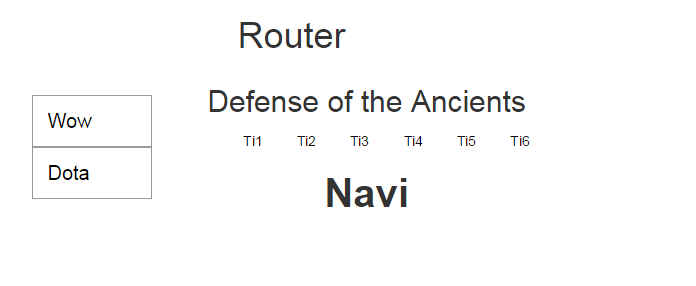
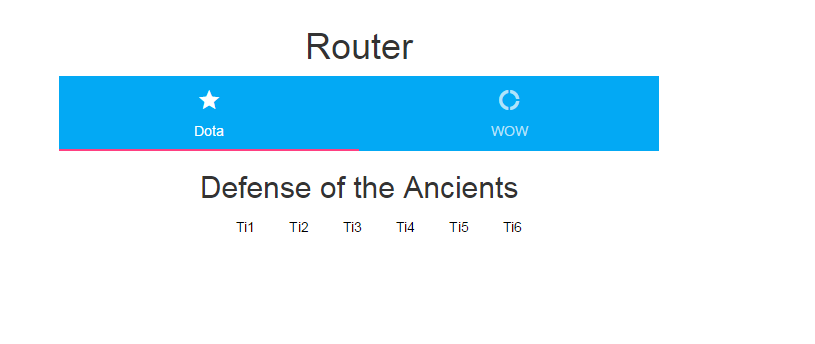
muse-ui-2

diff --git a/src/module/shopping/components/shoppingCar.vue b/src/module/shopping/components/shoppingCar.vue
@@ -4,7 +4,9 @@
 		<table class="table table-striped">
 		  <thead>
 		    <tr>
-		      <th><input type="checkbox" v-model="allChecked">全选({{checkedCount}})</th>
+		      <th>
+				  <mu-checkbox v-model="allChecked" label="全选" class="demo-checkbox"/>
+		      </th>
 		      <th>商品图片</th>
 		      <th>商品信息</th>
 		      <th>商品总价</th>
@@ -12,7 +14,9 @@
 		  </thead>
 		  <tbody>
 		    <tr v-for="(x,index) in list">
-		      <td><input class="test"  type='checkbox' :value="x.totle" v-model="checked"></td>
+		      <td><input class="test"  type='checkbox' :value="x.totle" v-model="checked">
+				<!-- <mu-checkbox :value="x.totle" v-model="checked" class="demo-checkbox"/> -->
+		      </td>
 		      <td><img style="width:80px;height:80px" v-bind:src='x.goodsImg'></td>
 		      <td>
 		      	<p>商品名称：{{x.goodsName}}</p>
@@ -22,14 +26,34 @@
 		      </td>
 		      <td>{{x.totle}}元</td>
 		    </tr>
-		    
 		  </tbody>
 		</table>
+		<mu-table  :fixedHeader="fixedHeader" :allRowsSelected="enableSelectAll" :multiSelectable="multiSelectable" :selectable="selectable" :showCheckbox="showCheckbox" @rowSelection="handleClick">
+		    <mu-thead slot="header">
+		      <mu-tr>
+		        <mu-th tooltip="图片">商品图片</mu-th>
+		        <mu-th tooltip="信息">商品信息</mu-th>
+		        <mu-th tooltip="价格">商品价格</mu-th>
+		      </mu-tr>
+		    </mu-thead>
+		    <mu-tbody >
+		      <mu-tr v-for="(item, index) in list">
+		        <mu-td><img style="width:80px;height:80px" v-bind:src='item.goodsImg'></mu-td>
+		        <mu-td>
+		        	<p>商品名称：{{item.goodsName}}</p>
+			      	<p>商品数量：{{item.count}}</p>
+			      	<p>商品价格：{{item.price}}元</p>
+			      	<p>商品颜色：{{item.color}}</p>
+		        </mu-td>
+		        <mu-td>{{item.totle}}元</mu-td>
+		      </mu-tr>
+		    </mu-tbody>
+		  </mu-table>
+		<p v-show="nothing" class="foot">暂无购买任何商品</p>
 		<p class="priceTotle">总计：<span>{{totle}}元</span></p>
 	</div>
 	 
 </template>
-
 <script>
 import { mapMutations } from 'vuex'
 import $ from 'jquery'
@@ -39,7 +63,13 @@ export default {
 			list:this.$store.state.goodsList,
 			checked: [],
 			checkedCount:null,
-			totle:0
+			totle:0,
+			nothing: false,
+			fixedHeader: true,
+	        selectable: true,
+	        multiSelectable: true,
+	        enableSelectAll: true,
+	        showCheckbox: true
 		}
 	},
 	//定义计算价格总和方法
@@ -50,6 +80,10 @@ export default {
    				_totle += x
    			})	
    			return _totle
+		},
+		handleClick: function(selectedRows){
+			console.log(selectedRows)
+			//只返回了某一行的id没有索引值不好处理，已与作者沟通等待更新
 		}
 	},
 	//监听checked变化
@@ -87,6 +121,15 @@ export default {
       	get: function() {
         	return this.checked.length;
       	}
+     },
+     nothing: {
+     	get: function(){
+     		if(this.list.length == 0){
+     			return true
+     		}else{
+     			return false
+     		}
+     	}
      }
    	}
   
@@ -104,6 +147,13 @@ export default {
 	.priceTotle{
 		padding-left: 700px;
 		font-weight: bold
+	}
+	.foot{
+		margin:50px auto 20px;
+		font-size: 20px;
+		font-weight: bold;
+		text-align: center;
+		width: 100%;
 	}
 </style>
 

diff --git a/src/module/resource/app.vue b/src/module/resource/app.vue
@@ -5,18 +5,22 @@
     <div class="list">
       <div class="mask" v-show="loading">
         Loading...
+        <mu-linear-progress />
       </div>
-      <ul class="content" v-show="!loading">
+      <!-- <ul class="content" v-show="!loading">
         <li v-for="(article, index) in articles">
           {{count-9+index}}{{article.title}}
         </li>
-      </ul>
+      </ul> -->
+      <mu-list v-show="!loading">
+        <mu-list-item class="item" v-for="(article, index) in articles" :title="(count-9+index)+article.title" :href="article.alt" inset>
+          <mu-avatar :src="article.images.small" slot="leftAvatar"/>
+        </mu-list-item>
+      </mu-list>
     </div>
-    
     <!-- <button class="prev" @click="subCount" disabled>上一页</button>
     <button class="next" @click="addCount">下一页</button> -->
     <div class="nav">
-       
         <!-- <boot-page></boot-page> -->
               <ul class="pagination boot-page">
                   <li>
@@ -55,12 +59,12 @@ import $ from 'jquery'
 export default {
   data () {
     return {
-      articles : '',
+      articles : [],
       count: 10,
       activeNum: 0,
       cur: 1,
       pageTotal: 10,
-      loading:false
+      loading:true
     }
   },
   computed: {
@@ -88,6 +92,8 @@ export default {
       // 这里是处理正确的回调
       this.articles = response.data.subjects
         // this.articles = response.data["subjects"] 也可以
+      this.loading = false
+      console.log(response)
     }, function (response) {
         // 这里是处理错误的回调
       console.log(response)
@@ -163,6 +169,10 @@ export default {
 }
 </script>
 <style scoped>
+a{
+  text-decoration: none;
+  color: red;
+}
 .box {
     padding: 100px;
 }
@@ -180,7 +190,7 @@ export default {
   }
   .list{
     width:300px;
-    height: 260px;
+    min-height: 500px;
     margin:20px auto;
     position: relative;
   }
@@ -191,7 +201,8 @@ export default {
     width: 300px;
     height: 260px;
     text-align: center;
-    line-height: 260px;
+    line-height: 150px;
+    padding-top: 125px;
     font-size: 50px;
   }
  #resource .content{

diff --git a/src/module/router/app.vue b/src/module/router/app.vue
@@ -1,18 +1,22 @@
 <template>
-	<div>
-		
-		<div class="route">
+	<div class="route">
 		<h1>{{$store.state.title}}</h1>
-			<div class="left">
-				<ul>
-			        <li><router-link to="/wow">Wow</router-link></li>
-			        <li><router-link to="/dota">Dota</router-link></li>
-			    </ul>
-			</div>
-			<div class="right">
-				<router-view class="view" keep-alive></router-view>
-			</div>    
+		<!-- <div class="left">
+			<ul>
+		        <li><router-link to="/wow" replace>Wow</router-link></li>
+		        <li><router-link to="/dota" replace>Dota</router-link></li>
+		    </ul>
 		</div>
+		<div class="right">
+			<router-view class="view" keep-alive></router-view>
+		</div>   -->
+		<mu-tabs :value="$store.state.activeTab" @change="handleTabChange">
+		  <mu-tab value="tab1" icon="grade" title="Dota"/>
+		  <mu-tab value="tab2" icon="donut_large" title="WOW"/>
+		</mu-tabs>
+		<div>
+			<router-view class="view" keep-alive></router-view>
+		</div>  
 	</div>
 </template>
 <script>
@@ -22,6 +26,17 @@ export default {
   components: {
   	wow,
     dota
+  },
+  methods: {
+    handleTabChange (val) {
+      this.$store.state.activeTab = val
+      if(val == "tab1"){
+      	this.$router.replace({ path: '/dota' })
+      }else if(val == "tab2"){
+      	this.$router.replace({ path: '/wow' })
+      }
+      
+    }
   }
 }
 </script>

diff --git a/src/module/date/app.vue b/src/module/date/app.vue
@@ -1,6 +1,7 @@
 <template>
 	<div class="card">
 		<h1>{{title}}</h1>
+    <h2>Vue.Component</h2>
 		<div>
 			<calendar :value="value" :disabled-days-of-week="disabled" :format="format" :clear-button="clear" :pane="2" :placeholder="placeholder" ></calendar>
 		</div>
@@ -9,8 +10,9 @@
 			<calendar :value="value" :disabled-days-of-week="disabled" :format="format" :clear-button="clear" :pane="2" :placeholder="placeholder" :special-days="_dateMap" :has-input="false" :on-day-click="onDayClick"></calendar>
 			<p>{{date}}</p>
 		</div>
-	    
-	    
+	  <h2>Muse-UI</h2>
+    <mu-date-picker hintText="竖屏模式选择" autoOk  v-model="selectDate"/> <span>{{selectDate}}</span><br/>
+    <mu-date-picker mode="landscape" hintText="横屏模式选择"/> <br/>
 	 </div>
 </template>
 <style scoped>
@@ -33,6 +35,7 @@ export default {
       title: 'DatePicker',
       date: '',
       disabled: [],
+      selectDate: '',
       value: '2016-06-10',
       format: 'yyyy-MM-dd',
       clear: true,

diff --git a/src/module/router/components/dota.vue b/src/module/router/components/dota.vue
@@ -2,12 +2,12 @@
   <div id="dota">
     <h2>{{text}}</h2>
     <ul>
-      <li><router-link to="/dota/Ti1">Ti1</router-link></li>
-      <li><router-link to="/dota/Ti2">Ti2</router-link></li>
-      <li><router-link to="/dota/Ti3">Ti3</router-link></li>
-      <li><router-link to="/dota/Ti4">Ti4</router-link></li>
-      <li><router-link to="/dota/Ti5">Ti5</router-link></li>
-      <li><router-link to="/dota/Ti6">Ti6</router-link></li>
+      <li><router-link to="/dota/Ti1" replace>Ti1</router-link></li>
+      <li><router-link to="/dota/Ti2" replace>Ti2</router-link></li>
+      <li><router-link to="/dota/Ti3" replace>Ti3</router-link></li>
+      <li><router-link to="/dota/Ti4" replace>Ti4</router-link></li>
+      <li><router-link to="/dota/Ti5" replace>Ti5</router-link></li>
+      <li><router-link to="/dota/Ti6" replace>Ti6</router-link></li>
     </ul>
     <transition name="slide-fade">
       <keep-alive>

diff --git a/src/module/router/router.js b/src/module/router/router.js
@@ -4,18 +4,19 @@ import App from './app'
 import store from './store'
 import dota from './components/dota'
 import wow from './components/wow'
+import MuseUI from 'muse-ui'
+import 'muse-ui/dist/muse-ui.css'
+Vue.use(MuseUI)
 Vue.use(VueRouter)
 require('bootstrap-sass')
-
 /* eslint-disable no-new */
-
 const router = new VueRouter({
   history: false,
   hashbang: true,
   routes: [
     {
       path: '',
-      component: wow
+      component: dota
     },
     {
       path: '/wow',

diff --git a/src/module/shopping/shopping.js b/src/module/shopping/shopping.js
@@ -4,6 +4,9 @@ import VueRouter from 'vue-router'
 import store from './store'
 import shoppingCar from './components/shoppingCar'
 import goods from './components/goods'
+import MuseUI from 'muse-ui'
+import 'muse-ui/dist/muse-ui.css'
+Vue.use(MuseUI)
 require('bootstrap-sass')
 Vue.use(VueRouter)
 

diff --git a/src/module/shopping/shopping.html b/src/module/shopping/shopping.html
@@ -6,7 +6,8 @@
     <meta content="telephone=no" name="format-detection" /> 
     <meta content="email=no" name="format-detection" />
     <title>Shopping</title>
-    
+    <link href="https://fonts.googleapis.com/icon?family=Material+Icons"
+        rel="stylesheet">
   </head>
   <body>
   	

diff --git a/src/module/date/date.html b/src/module/date/date.html
@@ -6,7 +6,8 @@
     <meta content="telephone=no" name="format-detection" /> 
     <meta content="email=no" name="format-detection" />
     <title>date</title>
-    
+    <link href="https://fonts.googleapis.com/icon?family=Material+Icons"
+        rel="stylesheet">
   </head>
   <body>
   	

diff --git a/src/module/router/router.html b/src/module/router/router.html
@@ -6,7 +6,8 @@
     <meta content="telephone=no" name="format-detection" /> 
     <meta content="email=no" name="format-detection" />
     <title>router</title>
-    
+    <link href="https://fonts.googleapis.com/icon?family=Material+Icons"
+      rel="stylesheet">
   </head>
   <body>
   	

diff --git a/src/module/resource/resource.js b/src/module/resource/resource.js
@@ -2,6 +2,9 @@ import Vue from 'vue'
 import App from './app'
 import store from './store'
 import VueResource from 'vue-resource'
+import MuseUI from 'muse-ui'
+import 'muse-ui/dist/muse-ui.css'
+Vue.use(MuseUI)
 Vue.use(VueResource)
 require('bootstrap-sass')
 

diff --git a/src/module/date/date.js b/src/module/date/date.js
@@ -1,6 +1,9 @@
 import Vue from 'vue'
 import App from './app'
 import Calendar from './components/Calendar'
+import MuseUI from 'muse-ui'
+import 'muse-ui/dist/muse-ui.css'
+Vue.use(MuseUI)
 require('bootstrap-sass')
 
 new Vue({
